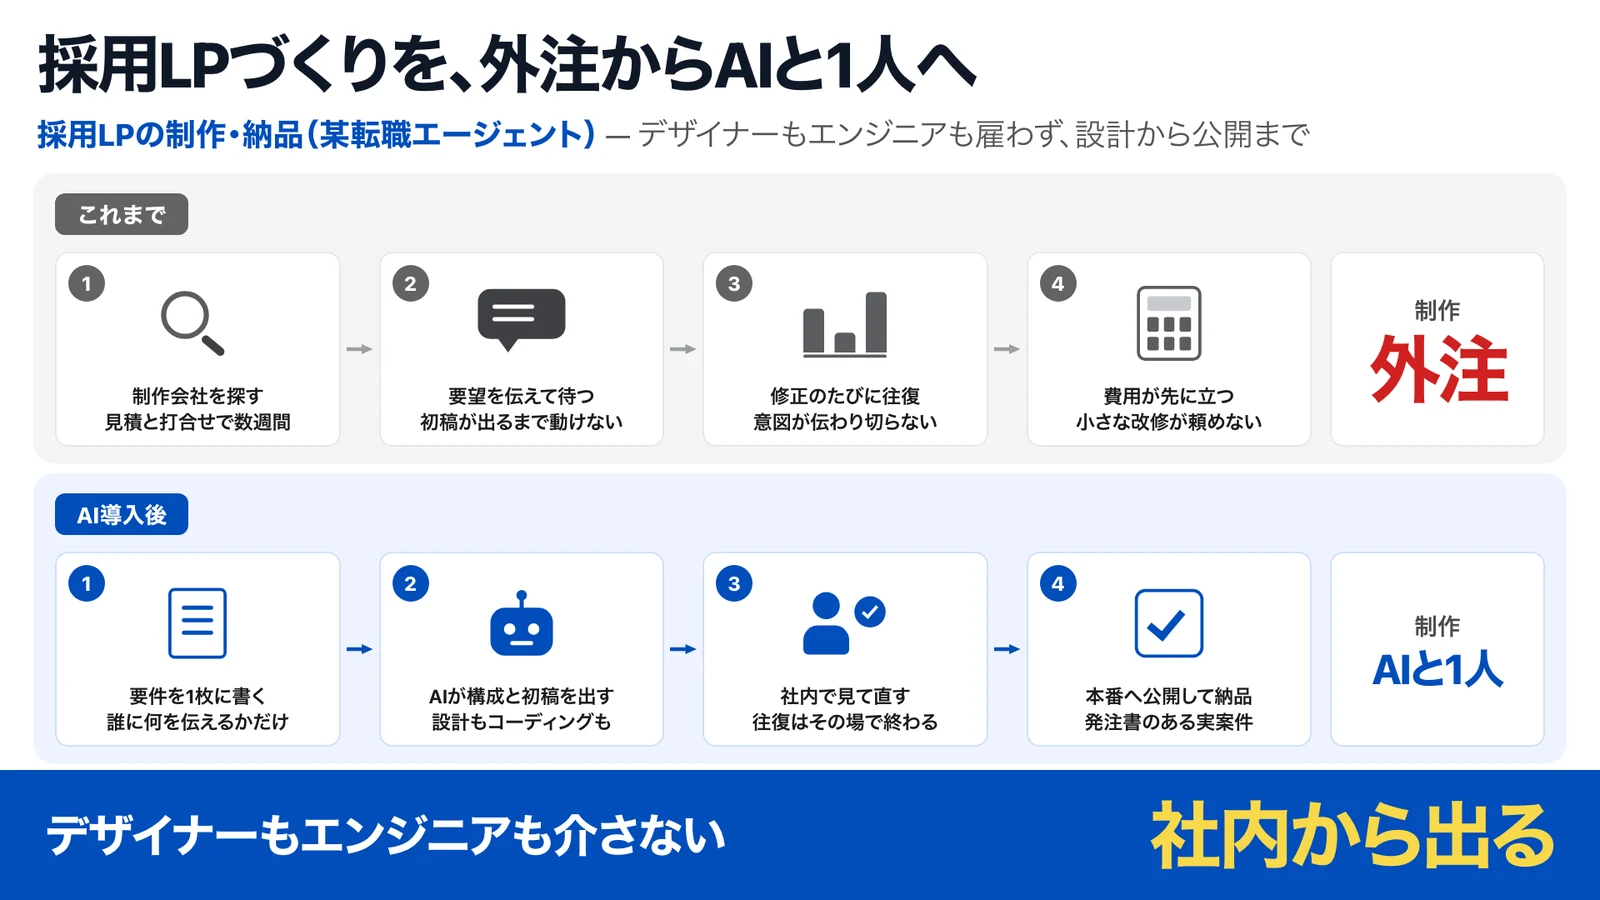
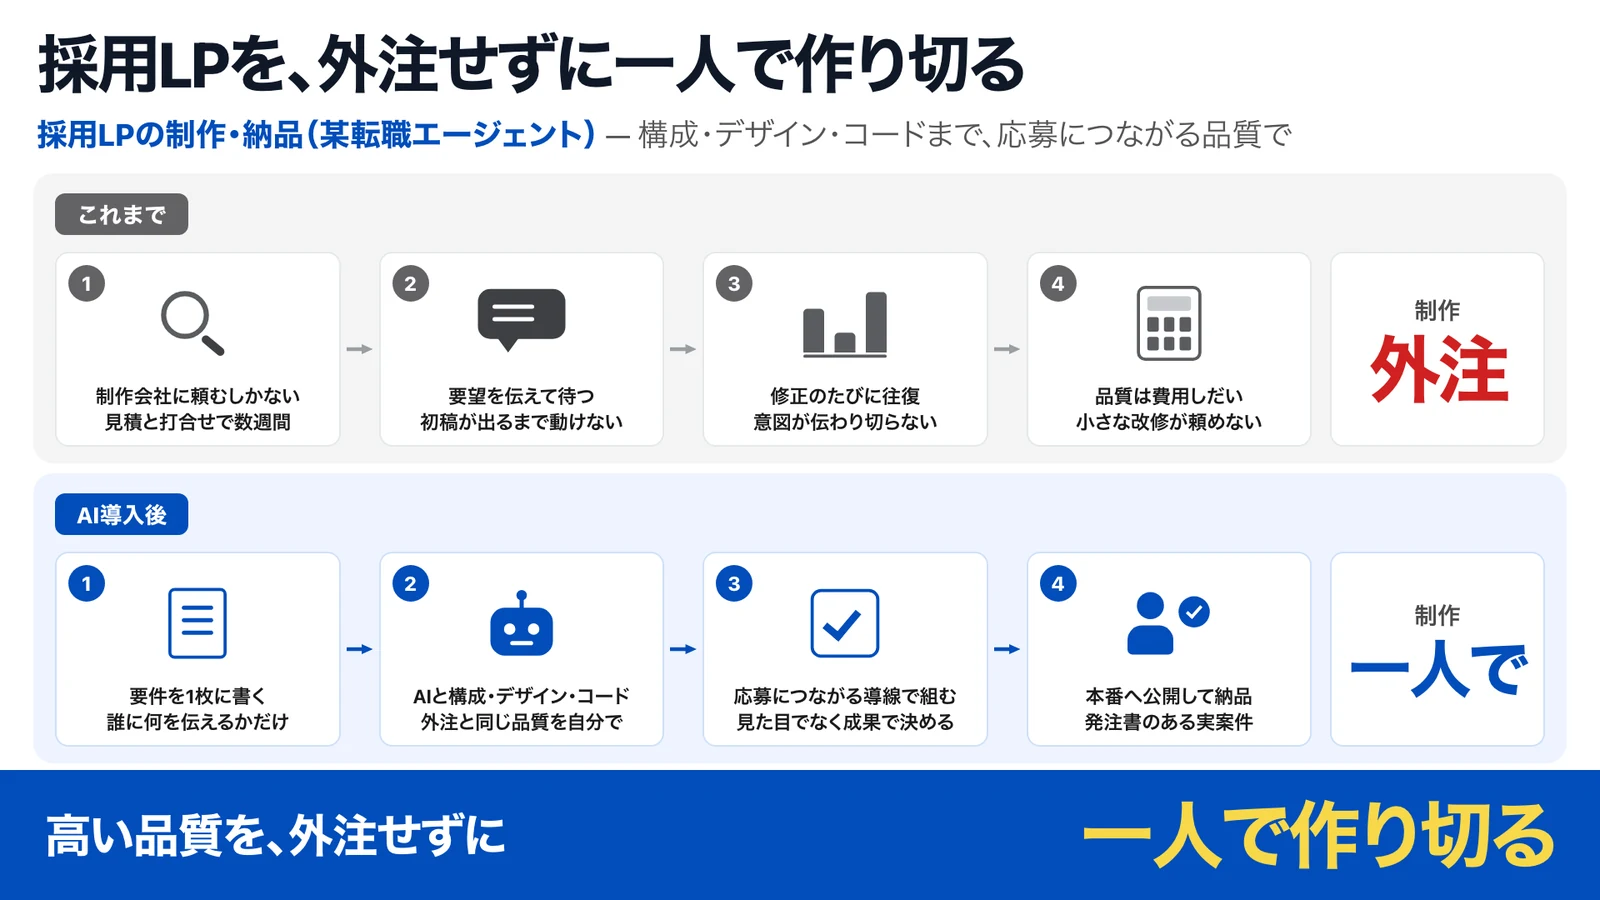
fix: FBモード2回目の7件 — フォーム営業・採用LP・1on1 の図解を主題から書き直し、地図はカード一覧、バッジ「毎日稼働中」「組める仕組み」
- フォーム営業: 主題を「テンプレから個社別へ」（URLを渡すと会社を調べ、その会社向けに書く）に
- 採用LP: 「外注せずに一人で作り切る」（構成・デザイン・コードまで、応募につながる品質で）に
- 1on1: 「毎回ゼロからでなく続きから」（記録が次回の準備になり、準備ではなく対話に時間を使う）に
- スキルとエージェントの可視化: 画像をダッシュボードからカード一覧のキャプチャに
- タスクの先回り: バッジ「平日毎日稼働中」→「毎日稼働中」
- 他社事例4件のバッジ「他社の事例」→「組める仕組み」（自社でも組める前提で載せる）
- 検査: 機械ゲート 20/20・NG検査 OK

diff --git a/index.html b/index.html
@@ -351,14 +351,14 @@ p.csub{max-width:1100px;margin:-6px auto 16px;font-size:.95rem;color:var(--tx2);
 <div class="sgrid"><div class="scard zoomable fi" data-cap="スキルとエージェントの可視化"><div class="thumb"><img src="cases/media/list-map_real.webp" alt="スキルとエージェントの可視化の図解" loading="lazy" width="1600" height="900"></div>
 <div class="sbody"><div><h3>スキルとエージェントの可視化</h3><p>AIに何を任せているのか、全体像が誰にも見えない</p></div><span class="bd bd-live">稼働中</span></div></div><div class="scard zoomable fi" data-cap="業務フロー図の自動生成"><div class="thumb"><img src="cases/media/list-flow_real.webp" data-full="cases/media/list-flow_full.webp" alt="業務フロー図の自動生成の図解" loading="lazy" width="1600" height="900"></div>
 <div class="sbody"><div><h3>業務フロー図の自動生成</h3><p>「今どう回っているか」を1枚で説明できる人が社内にいない</p></div><span class="bd bd-live">制作で使用中</span></div></div><div class="scard zoomable fi" data-cap="フォーム営業の仕組み一式"><div class="thumb"><img src="cases/media/list-form_real.webp" alt="フォーム営業の仕組み一式の図解" loading="lazy" width="1600" height="900"></div>
-<div class="sbody"><div><h3>フォーム営業の仕組み一式</h3><p>営業文面が毎回コピペ・フォローが漏れる</p></div><span class="bd bd-live">営業で使用中</span></div></div><div class="scard zoomable fi" data-cap="採用LPの制作・納品（某転職エージェント）"><div class="thumb"><img src="cases/media/list-lp_real.webp" alt="採用LPの制作・納品（某転職エージェント）の図解" loading="lazy" width="1600" height="900"></div>
+<div class="sbody"><div><h3>フォーム営業の仕組み一式</h3><p>テンプレの文面しか送れず、相手ごとの言葉にならない</p></div><span class="bd bd-live">営業で使用中</span></div></div><div class="scard zoomable fi" data-cap="採用LPの制作・納品（某転職エージェント）"><div class="thumb"><img src="cases/media/list-lp_real.webp" alt="採用LPの制作・納品（某転職エージェント）の図解" loading="lazy" width="1600" height="900"></div>
 <div class="sbody"><div><h3>採用LPの制作・納品（某転職エージェント）</h3><p>LP・制作物は外注するしかないと思っている</p></div><span class="bd bd-live">実案件で納品</span></div></div><div class="scard zoomable fi" data-cap="タスクの先回り処理"><div class="thumb"><img src="cases/media/list-saki_real.webp" alt="タスクの先回り処理の図解" loading="lazy" width="1600" height="900"></div>
-<div class="sbody"><div><h3>タスクの先回り処理</h3><p>「やらなきゃ」のまま止まっているタスクがある</p></div><span class="bd bd-live">平日毎日稼働中</span></div></div><div class="scard zoomable fi" data-cap="1分ごとの画面記録から、日報が自動で書ける"><div class="thumb"><img src="cases/media/list-nikki_real.webp" alt="1分ごとの画面記録から、日報が自動で書けるの図解" loading="lazy" width="1600" height="900"></div>
-<div class="sbody"><div><h3>1分ごとの画面記録から、日報が自動で書ける</h3><p>日報や作業記録は、書く手間がある限り続かない</p></div><span class="bd bd-live">毎分記録中</span></div></div><div class="scard zoomable fi" data-cap="マネージャー1on1準備の自動化"><div class="thumb"><img src="cases/media/list-1on1.webp" alt="マネージャー1on1準備の自動化の図解" loading="lazy" width="1600" height="900"></div>
-<div class="sbody"><div><h3>マネージャー1on1準備の自動化</h3><p>1on1の準備が、前回の記録を読み返すところから毎回始まる</p></div><span class="bd bd-ext">他社の事例</span></div></div><div class="scard zoomable fi" data-cap="営業商談プロセスのAI全自動化"><div class="thumb"><img src="cases/media/list-shodan.webp" alt="営業商談プロセスのAI全自動化の図解" loading="lazy" width="1600" height="900"></div>
-<div class="sbody"><div><h3>営業商談プロセスのAI全自動化</h3><p>商談前後の準備・フォローが、営業担当それぞれのやり方に依存している</p></div><span class="bd bd-ext">他社の事例</span></div></div><div class="scard zoomable fi" data-cap="メンバー成長追跡OS（評価・キャリア設計の脱属人化）"><div class="thumb"><img src="cases/media/list-growth.webp" alt="メンバー成長追跡OS（評価・キャリア設計の脱属人化）の図解" loading="lazy" width="1600" height="900"></div>
-<div class="sbody"><div><h3>メンバー成長追跡OS（評価・キャリア設計の脱属人化）</h3><p>メンバーの評価やキャリア設計が、上長の記憶と主観に依存している</p></div><span class="bd bd-ext">他社の事例</span></div></div><div class="scard zoomable fi" data-cap="Slackエンゲージメントスコア月次モニタリング"><div class="thumb"><img src="cases/media/list-slack.webp" alt="Slackエンゲージメントスコア月次モニタリングの図解" loading="lazy" width="1600" height="900"></div>
-<div class="sbody"><div><h3>Slackエンゲージメントスコア月次モニタリング</h3><p>メンバーのモチベーション低下に気づくのが、本人が不調を訴えてからになりがち</p></div><span class="bd bd-ext">他社の事例</span></div></div></div>
+<div class="sbody"><div><h3>タスクの先回り処理</h3><p>「やらなきゃ」のまま止まっているタスクがある</p></div><span class="bd bd-live">毎日稼働中</span></div></div><div class="scard zoomable fi" data-cap="1分ごとの画面記録から、日報が自動で書ける"><div class="thumb"><img src="cases/media/list-nikki_real.webp" alt="1分ごとの画面記録から、日報が自動で書けるの図解" loading="lazy" width="1600" height="900"></div>
+<div class="sbody"><div><h3>1分ごとの画面記録から、日報が自動で書ける</h3><p>日報や作業記録は、書く手間がある限り続かない</p></div><span class="bd bd-live">毎分記録中</span></div></div><div class="scard zoomable fi" data-cap="マネージャー1on1準備の自動化"><div class="thumb"><img src="cases/media/list-1on1_real.webp" alt="マネージャー1on1準備の自動化の図解" loading="lazy" width="1600" height="900"></div>
+<div class="sbody"><div><h3>マネージャー1on1準備の自動化</h3><p>1on1の準備が、前回の記録を読み返すところから毎回始まる</p></div><span class="bd bd-ext">組める仕組み</span></div></div><div class="scard zoomable fi" data-cap="営業商談プロセスのAI全自動化"><div class="thumb"><img src="cases/media/list-shodan.webp" alt="営業商談プロセスのAI全自動化の図解" loading="lazy" width="1600" height="900"></div>
+<div class="sbody"><div><h3>営業商談プロセスのAI全自動化</h3><p>商談前後の準備・フォローが、営業担当それぞれのやり方に依存している</p></div><span class="bd bd-ext">組める仕組み</span></div></div><div class="scard zoomable fi" data-cap="メンバー成長追跡OS（評価・キャリア設計の脱属人化）"><div class="thumb"><img src="cases/media/list-growth.webp" alt="メンバー成長追跡OS（評価・キャリア設計の脱属人化）の図解" loading="lazy" width="1600" height="900"></div>
+<div class="sbody"><div><h3>メンバー成長追跡OS（評価・キャリア設計の脱属人化）</h3><p>メンバーの評価やキャリア設計が、上長の記憶と主観に依存している</p></div><span class="bd bd-ext">組める仕組み</span></div></div><div class="scard zoomable fi" data-cap="Slackエンゲージメントスコア月次モニタリング"><div class="thumb"><img src="cases/media/list-slack.webp" alt="Slackエンゲージメントスコア月次モニタリングの図解" loading="lazy" width="1600" height="900"></div>
+<div class="sbody"><div><h3>Slackエンゲージメントスコア月次モニタリング</h3><p>メンバーのモチベーション低下に気づくのが、本人が不調を訴えてからになりがち</p></div><span class="bd bd-ext">組める仕組み</span></div></div></div>
 </div></section>
 
 <section class="cta"><div class="w">

diff --git a/tools/build.py b/tools/build.py
@@ -422,7 +422,7 @@ def case_card(c, root):
 
 def sys_card(l, root):
     ext = l.get("src_origin") == "external"
-    badge = '<span class="bd bd-ext">他社の事例</span>' if ext else f'<span class="bd bd-live">{esc(l["src_status"].split("（")[0].replace("⚡ ","").replace("🧰 ","").replace("🤝 ",""))}</span>'
+    badge = '<span class="bd bd-ext">組める仕組み</span>' if ext else f'<span class="bd bd-live">{esc(l["src_status"].split("（")[0].replace("⚡ ","").replace("🧰 ","").replace("🤝 ",""))}</span>'
     img = l.get("img") or f"{l['key']}.webp"
     full = f' data-full="{root}cases/media/{l["img_full"]}"' if l.get("img_full") else ""
     return f"""<div class="scard zoomable fi" data-cap="{esc(l['src_title'])}"><div class="thumb"><img src="{root}cases/media/{img}"{full} alt="{esc(l['src_title'])}の図解" loading="lazy" width="1600" height="900"></div>
